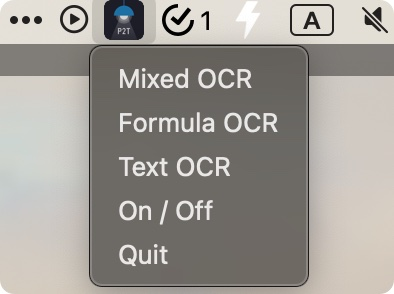
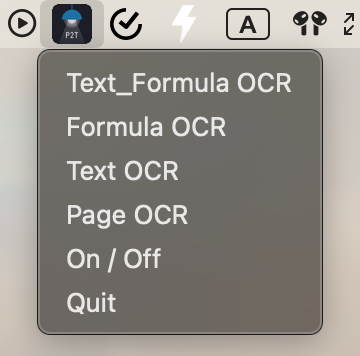
compatible with pix2text==1.1

diff --git a/pix2text_app.py b/pix2text_app.py
@@ -1,3 +1,8 @@
+import string
+import time
+import random
+from pathlib import Path
+
 import yaml
 from PIL import ImageGrab
 import pyperclip
@@ -17,6 +22,10 @@ ERROR_NT_FORM = {
 }
 
 CONFIG = yaml.safe_load(open('./config.yaml', 'r', encoding='utf-8'))
+OUTPUT_MD_ROOT_DIR = Path(CONFIG['output_md_root_dir'])
+OUTPUT_MD_ROOT_DIR.mkdir(exist_ok=True)
+OUTPUT_DEBUG_DIR = Path(CONFIG['output_debug_dir'])
+OUTPUT_DEBUG_DIR.mkdir(exist_ok=True)
 
 
 class Pix2TextApplication(rumps.App):
@@ -24,31 +33,16 @@ class Pix2TextApplication(rumps.App):
         super(Pix2TextApplication, self).__init__(
             name=name, icon='./icons/p2t-logo.png', quit_button="Quit"
         )
-        self.p2t = Pix2Text(
+        self.p2t = Pix2Text.from_config(
             **CONFIG['pix2text'],
-            # text_config=dict(
-            #     det_model_name='ch_PP-OCRv3_det',
-            #     rec_model_backend='onnx',
-            #     rec_model_name='doc-densenet_lite_666-gru_large',
-            # ),
-            # analyzer_config=dict(
-            #     model_name='mfd',
-            #     model_type='yolov7',
-            #     model_fp='/Users/king/.cnstd/1.2/analysis/mfd-yolov7-epoch224-20230613.pt',
-            # ),
-            # formula_config=dict(
-            #     model_name='mfr-pro',
-            #     model_backend='onnx',
-            #     # model_dir=formula_dir / 'mfr-pro-onnx',  # 注：修改成你的模型文件所存储的路径
-            # ),
         )
 
-    @rumps.clicked("Mixed OCR")
+    @rumps.clicked("Text_Formula OCR")
     def recognize_mixed(self, _):
         # Identify mixed image
         image = ImageGrab.grabclipboard()
         try:
-            only_text = self.p2t.recognize(
+            only_text = self.p2t.recognize_text_formula(
                 image, resized_shape=608, return_text=True
             )  # 也可以使用 `p2t(img_fp, resized_shape=608)` 获得相同的结果
             SUCCESS_NT_FORM['message'] = only_text
@@ -84,13 +78,35 @@ class Pix2TextApplication(rumps.App):
             ERROR_NT_FORM['message'] += str(e)
             rumps.notification(**ERROR_NT_FORM)
 
+    @rumps.clicked("Page OCR")
+    def recognize_page(self, _):
+        # Identify page image
+        image = ImageGrab.grabclipboard()
+        suffix = list(string.ascii_letters)
+        random.shuffle(suffix)
+        suffix = ''.join(suffix[:6])
+        fp_suffix = f'{time.time()}-{suffix}'
+        out_debug_dir = OUTPUT_DEBUG_DIR / f'out-debug-{fp_suffix}'
+        output_dir = OUTPUT_MD_ROOT_DIR / f'output-{fp_suffix}'
+        try:
+            page = self.p2t.recognize_page(
+                image, save_debug_res=out_debug_dir
+            )
+            only_text = page.to_markdown(output_dir)
+            SUCCESS_NT_FORM['message'] = f'saved to {output_dir.absolute()}!\n' + only_text
+            pyperclip.copy(only_text)
+            rumps.notification(**SUCCESS_NT_FORM)
+        except Exception as e:
+            ERROR_NT_FORM['message'] += str(e)
+            rumps.notification(**ERROR_NT_FORM)
+
     @rumps.notifications
     def notification_center(self, info):
         pass
 
     @rumps.clicked("On / Off")
     def onoff(self, _):
-        mixed_ocr_button = self.menu['Mixed OCR']
+        mixed_ocr_button = self.menu['Text_Formula OCR']
         if mixed_ocr_button.callback is None:
             mixed_ocr_button.set_callback(self.recognize_mixed)
         else:
@@ -105,6 +121,11 @@ class Pix2TextApplication(rumps.App):
             formula_ocr_button.set_callback(self.recognize_text)
         else:
             formula_ocr_button.set_callback(None)
+        page_ocr_button = self.menu['Page OCR']
+        if page_ocr_button.callback is None:
+            page_ocr_button.set_callback(self.recognize_page)
+        else:
+            page_ocr_button.set_callback(None)
 
 
 if __name__ == "__main__":

diff --git a/README.md b/README.md
@@ -11,7 +11,8 @@
 
 [👩🏻💻 Pix2Text Online Service](https://p2t.breezedeus.com) |
 [👨🏻💻 Pix2Text Online Demo](https://huggingface.co/spaces/breezedeus/Pix2Text-Demo) |
-[💬 Contact](https://www.breezedeus.com/join-group)
+[📖 Online Doc](https://pix2text.readthedocs.io) |
+[💬 Contact](https://www.breezedeus.com/article/join-group)
 
 </div>
 
@@ -38,7 +39,7 @@ After opening the application, you can see the Pix2Text application icon in the 
   <img src="./assets/on_menu_bar.jpg" width="250px"/>
 </div>
 
-### 1. `Mixed OCR`: Recognizing images with both formulas and text
+### 1. `Text_Formula OCR`: Recognizing images with both formulas and text
 This mode can recognize images containing both mathematical formulas and text. The recognition result is in Markdown format, which can be pasted into the [Pix2Text Online Service](https://p2t.breezedeus.com) to view the rendered result.
 
 For example, it can recognize the following image ([assets/mixed-en.jpg](./assets/mixed-en.jpg)):
@@ -65,6 +66,16 @@ For example, it can recognize the following image ([assets/text.jpg](./assets/te
   <img src="./assets/text.jpg" alt="English mixed image" width="300px"/>
 </div>
 
+### 4. `Page OCR`: Recognizing Page Screenshots with Complex Layouts
+If an image contains complex layout structures, such as multi-column layouts or includes tables and other information, you can use this mode for recognition. This mode will additionally load the **Layout Analysis** and **Table Recognition** models from `pix2text~=1.1` to recognize all information in the image and integrate the recognition results into Markdown format. You can paste the results into the [Pix2Text web version](https://p2t.breezedeus.com) to view the rendered results.
+
+The recognition results will also be saved to a specified local folder. The folder location can be specified by the `output_md_root_dir` variable in the configuration file [config.yaml](./config.yaml), which defaults to the `/tmp/output_mds` folder. Additionally, the parsing results will be saved to a specified local folder. The folder location can be specified by the `output_debug_dir` variable in the configuration file [config.yaml](./config.yaml), which defaults to the `/tmp/output_debugs` folder. You can manually change the values of these two variables to specify the storage location.
+
+For example, it can recognize the following image ([assets/page.png](./assets/page.png)):
+
+<div align="center">
+  <img src="./assets/page.png" alt="English mixed image" width="500px"/>
+</div>
 
 ## Installation
 
@@ -83,7 +94,7 @@ pip install -r requirements.txt
 If you want to recognize text images in languages other than **Simplified Chinese and English**, please run the following command to install additional dependencies:
 
 ```bash
-pip install pix2text[multilingual]
+pip install pix2text[multilingual]>=1.1.0.1
 ```
 
 #### 3. Verify the installation is working correctly
@@ -91,7 +102,7 @@ pip install pix2text[multilingual]
 Use the following command to verify if the installed [Pix2Text](https://github.com/breezedeus/Pix2Text) is working normally:
 
 ```bash
-p2t predict -l en,ch_sim -a mfd -i assets/mixed-en.jpg
+p2t predict -l en,ch_sim --resized-shape 768 --file-type page -i assets/page.png -o output-page --save-debug-res output-debug-page
 ```
 
 #### 4. Package the application:
@@ -112,13 +123,16 @@ python setup.py py2app -A
     - Use any screenshot software, such as `Snipaste`, to capture and copy to the clipboard.
 - Recognition
     - Recognize images with both mathematical formulas and text
-        - Click the `Mixed OCR` button.
+        - Click the `Text_Formula OCR` button.
         - After successful recognition, you will receive a notification in the notification center.
   - Recognize images with pure mathematical formulas
       - Click the `Formula OCR` button.
       - After successful recognition, you will receive a notification in the notification center.
   - Recognize images with pure text
     - Click the `Text OCR` button.
+    - After successful recognition, you will receive a notification in the notification center.
+  - To recognize screenshots of pages with complex layouts
+    - Click on the `Page OCR` button.
     - After successful recognition, you will receive a notification in the notification center.
   - If you do not want to receive notifications, you can turn them off in the system settings.
   - After receiving a notification, you can paste the result into the [Pix2Text Online Service](https://p2t.breezedeus.com) to view the rendered result.

diff --git a/README_cn.md b/README_cn.md
@@ -11,7 +11,8 @@
 
 [👩🏻💻 Pix2Text 网页版](https://p2t.breezedeus.com) |
 [👨🏻💻 Pix2Text 在线 Demo](https://huggingface.co/spaces/breezedeus/Pix2Text-Demo) |
-[💬 Contact](https://www.breezedeus.com/join-group)
+[📖 在线文档](https://pix2text.readthedocs.io) |
+[💬 Contact](https://www.breezedeus.com/article/join-group)
 
 </div>
 
@@ -39,7 +40,7 @@
   <img src="./assets/on_menu_bar.jpg" width="250px"/>
 </div>
 
-### 1. `Mixed OCR`：识别既有公式又有文本的混合图片
+### 1. `Text_Formula OCR`：识别既有公式又有文本的混合图片
 可识别既包含数学公式又包含文本的混合图片，识别结果为 Markdown 格式，可把结果粘贴至 [Pix2Text 网页版](https://p2t.breezedeus.com) 查看渲染结果。
 
 如可识别以下图片 ([assets/mixed.jpg](./assets/mixed.jpg))：
@@ -68,6 +69,19 @@
   <img src="./assets/text.jpg" alt="English mixed image" width="300px"/>
 </div>
 
+### 4. `Page OCR`：识别包含复杂排版的页面截图图片
+如果一张图片中包含复杂的排版结构，如多列排版，或者其中包含表格等其他信息，可使用此模式进行识别。此模式会额外加载 `pix2text~=1.1` 中的**版面分析**以及**表格识别**模型识别图片中的所有信息，并把识别结果整合为 Markdown 格式，可把结果粘贴至 [Pix2Text 网页版](https://p2t.breezedeus.com) 查看渲染结果。
+
+识别结果也会存储到本地指定文件夹；文件夹位置可以通过配置文件 [config.yaml](./config.yaml) 中的 `output_md_root_dir` 变量指定，默认为 `/tmp/output_mds` 文件夹。
+同时，解析结果也会存储到本地指定文件夹；文件夹位置可以通过配置文件 [config.yaml](./config.yaml) 中的 `output_debug_dir` 变量指定，默认为 `/tmp/output_debugs` 文件夹。
+可以自行手动更改这两个变量的取值以指定存储位置。
+
+如可识别以下图片 ([assets/page.png](./assets/page.png))：
+
+<div align="center">
+  <img src="./assets/page.png" alt="English mixed image" width="500px"/>
+</div>
+
 
 ## 如何安装
 
@@ -92,7 +106,7 @@ pip install -r requirements.txt
 如果你想识别**简体中文、英文**以外其他语言的文字图片，请运行以下命令安装额外的依赖：
 
 ```bash
-pip install pix2text[multilingual]
+pip install pix2text[multilingual]>=1.1.0.1
 ```
 
 #### 3. 验证安装是否一切正常
@@ -100,7 +114,7 @@ pip install pix2text[multilingual]
 使用以下命令验证已安装的 [Pix2Text](https://github.com/breezedeus/Pix2Text) 是否可正常工作：
 
 ```bash
-p2t predict -l en,ch_sim -a mfd -i assets/mixed.jpg
+p2t predict -l en,ch_sim --resized-shape 768 --file-type page -i assets/page.png -o output-page --save-debug-res output-debug-page
 ```
 
 #### 4. 打包应用程序
@@ -120,13 +134,16 @@ python setup.py py2app -A
     - 使用任意截图软件，例如 `Snipaste`，截图并复制到剪切板。
 - 识别
     - 识别数学公式和文字的混合图片
-        - 点击 `Mixed OCR` 按钮
+        - 点击 `Text_Formula OCR` 按钮
         - 识别成功后，会收到通知栏的通知
   - 识别纯数学公式图片
       - 点击 `Formula OCR` 按钮
       - 识别成功后，会收到通知栏的通知
   - 识别纯文本图片
     - 点击 `Text OCR` 按钮
+    - 识别成功后，会收到通知栏的通知
+  - 识别包含复杂排版的页面截图图片
+    - 点击 `Page OCR` 按钮
     - 识别成功后，会收到通知栏的通知
   - 如果不想接受通知可以在系统设置里关闭通知。
   - 收到通知后，即可把结果粘贴至 [Pix2Text 网页版](https://p2t.breezedeus.com) 查看渲染结果。
